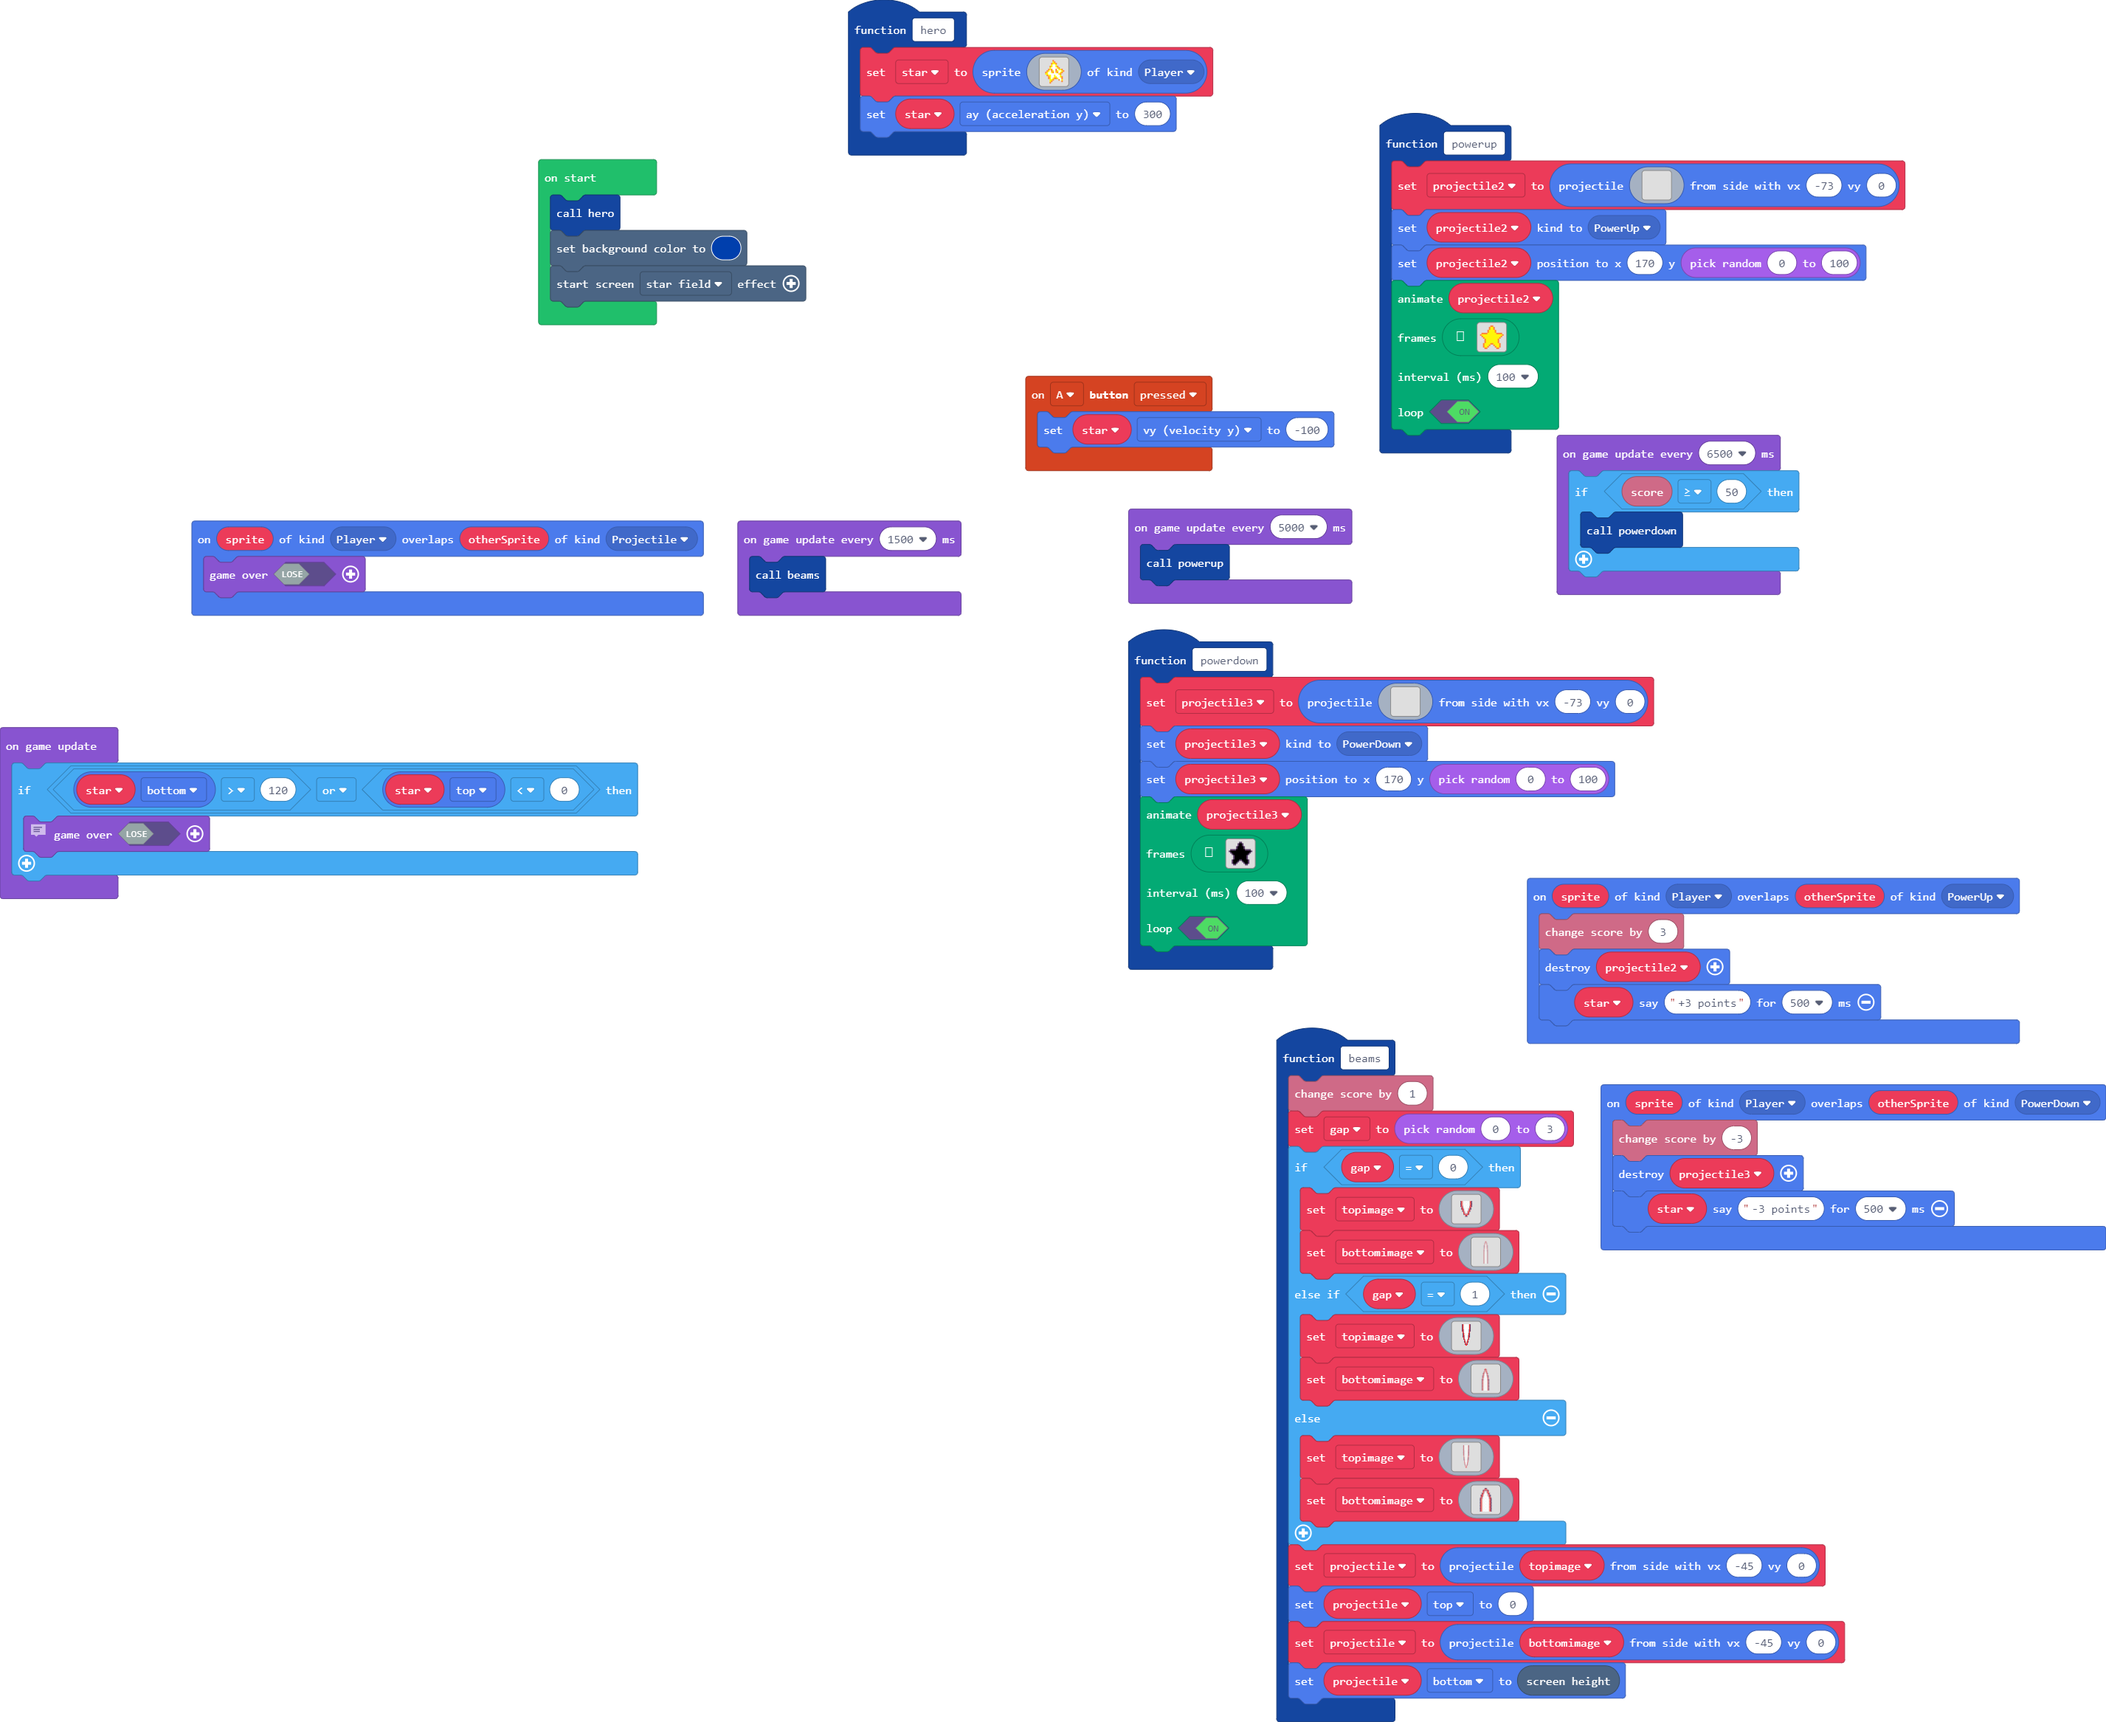
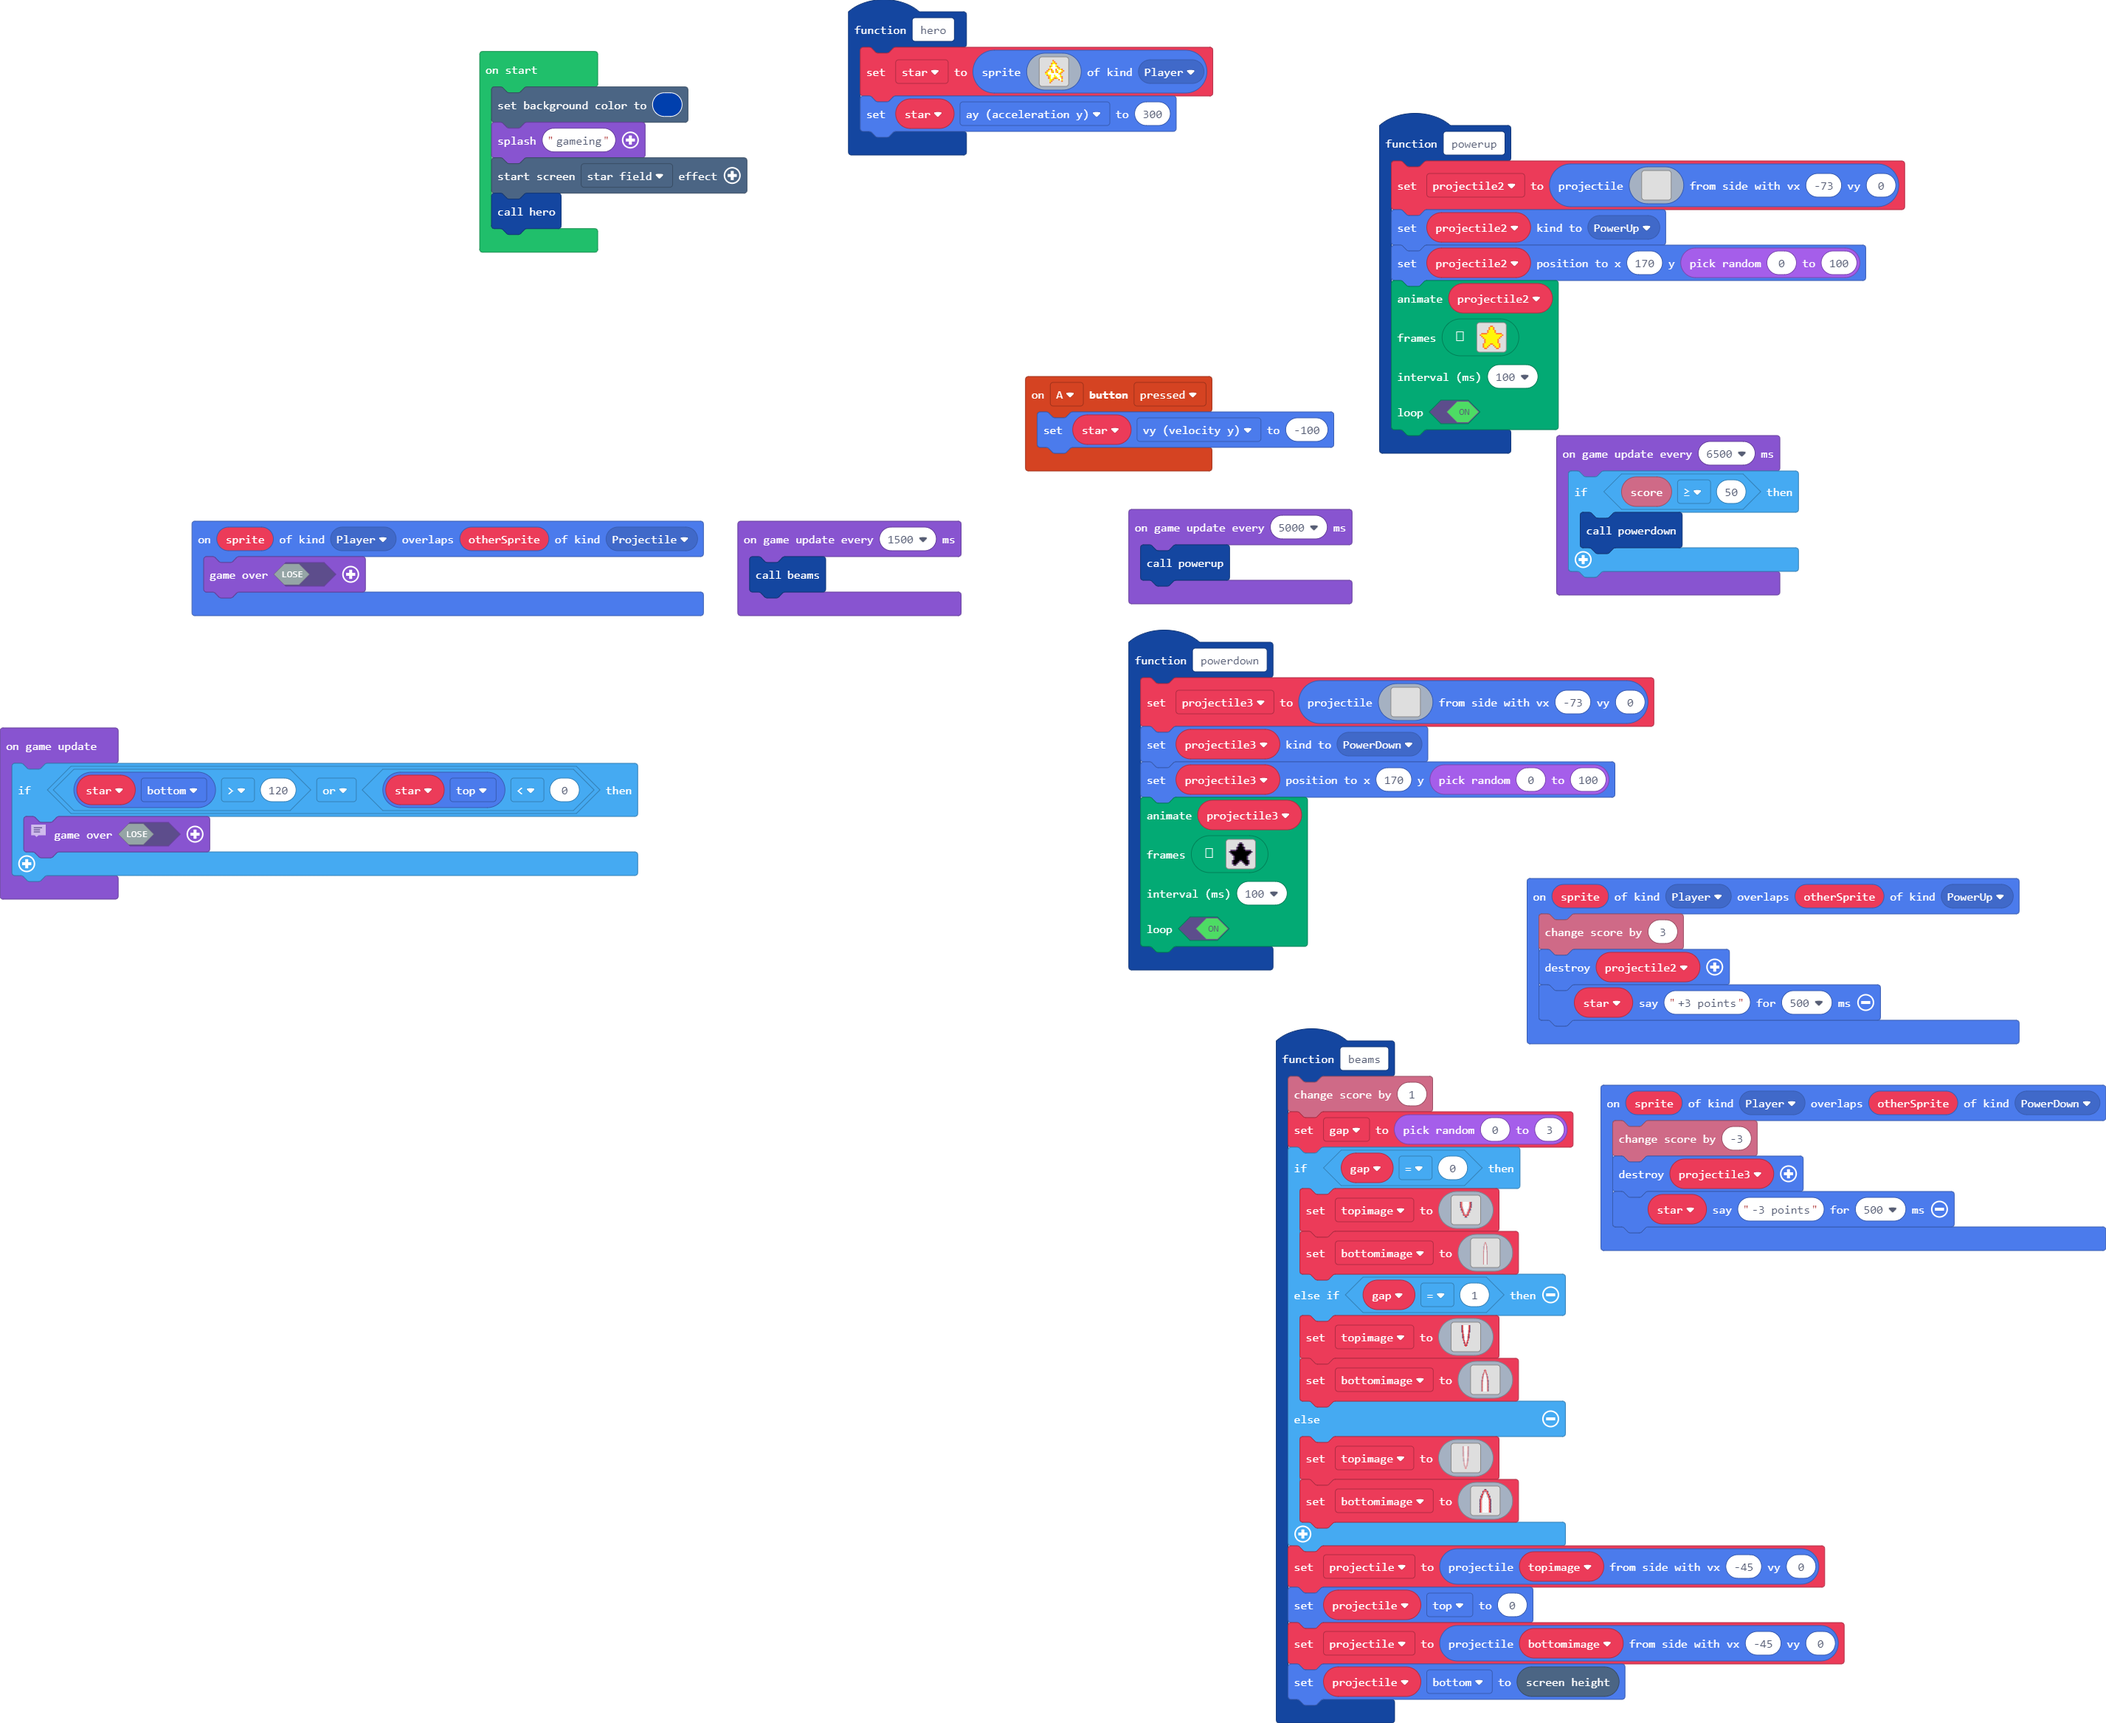
Update main.blocks, main.ts

diff --git a/main.ts b/main.ts
@@ -3,102 +3,6 @@ namespace SpriteKind {
     export const PowerUp = SpriteKind.create()
     export const PowerDown = SpriteKind.create()
 }
-function powerup () {
-    projectile2 = sprites.createProjectileFromSide(img`
-. . . . . . . . . . . . . . . . 
-. . . . . . . . . . . . . . . . 
-. . . . . . . . . . . . . . . . 
-. . . . . . . . . . . . . . . . 
-. . . . . . . . . . . . . . . . 
-. . . . . . . . . . . . . . . . 
-. . . . . . . . . . . . . . . . 
-. . . . . . . . . . . . . . . . 
-. . . . . . . . . . . . . . . . 
-. . . . . . . . . . . . . . . . 
-. . . . . . . . . . . . . . . . 
-. . . . . . . . . . . . . . . . 
-. . . . . . . . . . . . . . . . 
-. . . . . . . . . . . . . . . . 
-. . . . . . . . . . . . . . . . 
-. . . . . . . . . . . . . . . . 
-`, -73, 0)
-    projectile2.setKind(SpriteKind.PowerUp)
-    projectile2.setPosition(170, Math.randomRange(0, 100))
-    animation.runImageAnimation(
-    projectile2,
-    [img`
-. . . . . . . 4 4 . . . . . . . 
-. . . . . . 4 5 5 4 . . . . . . 
-. . . . . . 4 5 5 4 . . . . . . 
-. . . . . 4 5 5 5 5 4 . . . . . 
-. . . . . 4 5 5 5 5 4 . . . . . 
-. 4 4 4 4 5 5 5 5 5 5 4 4 4 4 . 
-4 5 5 5 5 5 5 5 5 5 5 5 5 5 5 4 
-. 4 5 5 5 5 5 5 5 5 5 5 5 5 4 . 
-. . 4 5 5 5 5 5 5 5 5 5 5 4 . . 
-. . . 4 5 5 5 5 5 5 5 5 4 . . . 
-. . . 4 5 5 5 5 5 5 5 5 4 . . . 
-. . . 4 5 5 5 5 5 5 5 5 4 . . . 
-. . 4 5 5 5 5 4 4 5 5 5 5 4 . . 
-. . 4 5 5 5 4 . . 4 5 5 5 4 . . 
-. . 4 5 5 4 . . . . 4 5 5 4 . . 
-. . . 4 4 . . . . . . 4 4 . . . 
-`,img`
-. . . . . . . . . 5 5 . . . . . 
-. . . . . . . . 5 5 1 5 . . . . 
-. . . . . . . . 5 1 1 5 . . . . 
-. . 5 5 5 . . 5 1 1 1 5 . . . . 
-. 5 1 1 1 5 5 1 1 1 1 5 . . . . 
-. 5 1 1 1 1 1 1 1 1 1 1 5 . . . 
-. . 5 1 1 1 1 1 1 1 1 1 1 5 5 . 
-. . . 5 1 1 1 1 1 1 1 1 1 1 1 5 
-. . . . 5 1 1 1 1 1 1 1 1 1 5 5 
-. . . 5 1 1 1 1 1 1 1 1 1 5 5 . 
-. . 5 1 1 1 1 1 1 1 1 5 5 . . . 
-. . 5 1 1 1 1 1 1 1 1 5 . . . . 
-. 5 1 1 1 1 5 5 1 1 1 5 . . . . 
-. 5 1 1 5 5 . . 5 1 1 5 . . . . 
-. 5 5 5 . . . . 5 5 1 5 . . . . 
-. . . . . . . . . 5 5 . . . . . 
-`,img`
-. . . 4 4 . . . . . . 4 4 . . . 
-. . 4 5 5 4 . . . . 4 5 5 4 . . 
-. . 4 5 5 5 4 . . 4 5 5 5 4 . . 
-. . 4 5 5 5 5 4 4 5 5 5 5 4 . . 
-. . . 4 5 5 5 5 5 5 5 5 4 . . . 
-. . . 4 5 5 5 5 5 5 5 5 4 . . . 
-. . . 4 5 5 5 5 5 5 5 5 4 . . . 
-. . 4 5 5 5 5 5 5 5 5 5 5 4 . . 
-. 4 5 5 5 5 5 5 5 5 5 5 5 5 4 . 
-4 5 5 5 5 5 5 5 5 5 5 5 5 5 5 4 
-. 4 4 4 4 5 5 5 5 5 5 4 4 4 4 . 
-. . . . . 4 5 5 5 5 4 . . . . . 
-. . . . . 4 5 5 5 5 4 . . . . . 
-. . . . . . 4 5 5 4 . . . . . . 
-. . . . . . 4 5 5 4 . . . . . . 
-. . . . . . . 4 4 . . . . . . . 
-`,img`
-. . . . . 5 5 . . . . . . . . . 
-. . . . 5 1 5 5 . . . . . . . . 
-. . . . 5 1 1 5 . . . . . . . . 
-. . . . 5 1 1 1 5 . . 5 5 5 . . 
-. . . . 5 1 1 1 1 5 5 1 1 1 5 . 
-. . . 5 1 1 1 1 1 1 1 1 1 1 5 . 
-. 5 5 1 1 1 1 1 1 1 1 1 1 5 . . 
-5 1 1 1 1 1 1 1 1 1 1 1 5 . . . 
-5 5 1 1 1 1 1 1 1 1 1 5 . . . . 
-. 5 5 1 1 1 1 1 1 1 1 1 5 . . . 
-. . . 5 5 1 1 1 1 1 1 1 1 5 . . 
-. . . . 5 1 1 1 1 1 1 1 1 5 . . 
-. . . . 5 1 1 1 5 5 1 1 1 1 5 . 
-. . . . 5 1 1 5 . . 5 5 1 1 5 . 
-. . . . 5 1 5 5 . . . . 5 5 5 . 
-. . . . . 5 5 . . . . . . . . . 
-`],
-    100,
-    true
-    )
-}
 function powerdown () {
     projectile3 = sprites.createProjectileFromSide(img`
 . . . . . . . . . . . . . . . . 
@@ -195,6 +99,139 @@ f f a a a a a a a a a f . . . .
     true
     )
 }
+function hero () {
+    star = sprites.create(img`
+. . . . . . . 4 . . . . . . . . 
+. . . . . . . 5 4 . . . . . . . 
+. . . . . . 4 5 5 4 . . . . . . 
+. . . . . . 5 1 1 5 . . . . . . 
+. . . . . 4 5 1 1 5 4 . . . . . 
+. . . . . 5 1 1 1 1 5 4 . . . . 
+. . . . 4 5 4 1 1 4 1 5 5 4 . . 
+. . . 4 5 1 4 5 1 4 5 1 1 5 4 . 
+. . 4 5 1 1 5 4 1 5 4 1 5 4 . . 
+. . 5 5 1 1 1 1 1 1 1 5 4 . . . 
+. . . 4 5 5 1 1 5 1 1 1 5 . . . 
+. . . . 4 5 1 1 5 5 1 1 5 4 . . 
+. . . . 4 5 1 5 4 4 5 1 1 4 . . 
+. . . . . 5 5 4 . . . 4 1 5 . . 
+. . . . . 5 4 . . . . . . 4 . . 
+. . . . . 4 . . . . . . . . . . 
+`, SpriteKind.Player)
+    star.ay = 300
+}
+sprites.onOverlap(SpriteKind.Player, SpriteKind.PowerUp, function (sprite, otherSprite) {
+    info.changeScoreBy(3)
+    projectile2.destroy()
+    star.say("+3 points", 500)
+})
+function powerup () {
+    projectile2 = sprites.createProjectileFromSide(img`
+. . . . . . . . . . . . . . . . 
+. . . . . . . . . . . . . . . . 
+. . . . . . . . . . . . . . . . 
+. . . . . . . . . . . . . . . . 
+. . . . . . . . . . . . . . . . 
+. . . . . . . . . . . . . . . . 
+. . . . . . . . . . . . . . . . 
+. . . . . . . . . . . . . . . . 
+. . . . . . . . . . . . . . . . 
+. . . . . . . . . . . . . . . . 
+. . . . . . . . . . . . . . . . 
+. . . . . . . . . . . . . . . . 
+. . . . . . . . . . . . . . . . 
+. . . . . . . . . . . . . . . . 
+. . . . . . . . . . . . . . . . 
+. . . . . . . . . . . . . . . . 
+`, -73, 0)
+    projectile2.setKind(SpriteKind.PowerUp)
+    projectile2.setPosition(170, Math.randomRange(0, 100))
+    animation.runImageAnimation(
+    projectile2,
+    [img`
+. . . . . . . 4 4 . . . . . . . 
+. . . . . . 4 5 5 4 . . . . . . 
+. . . . . . 4 5 5 4 . . . . . . 
+. . . . . 4 5 5 5 5 4 . . . . . 
+. . . . . 4 5 5 5 5 4 . . . . . 
+. 4 4 4 4 5 5 5 5 5 5 4 4 4 4 . 
+4 5 5 5 5 5 5 5 5 5 5 5 5 5 5 4 
+. 4 5 5 5 5 5 5 5 5 5 5 5 5 4 . 
+. . 4 5 5 5 5 5 5 5 5 5 5 4 . . 
+. . . 4 5 5 5 5 5 5 5 5 4 . . . 
+. . . 4 5 5 5 5 5 5 5 5 4 . . . 
+. . . 4 5 5 5 5 5 5 5 5 4 . . . 
+. . 4 5 5 5 5 4 4 5 5 5 5 4 . . 
+. . 4 5 5 5 4 . . 4 5 5 5 4 . . 
+. . 4 5 5 4 . . . . 4 5 5 4 . . 
+. . . 4 4 . . . . . . 4 4 . . . 
+`,img`
+. . . . . . . . . 5 5 . . . . . 
+. . . . . . . . 5 5 1 5 . . . . 
+. . . . . . . . 5 1 1 5 . . . . 
+. . 5 5 5 . . 5 1 1 1 5 . . . . 
+. 5 1 1 1 5 5 1 1 1 1 5 . . . . 
+. 5 1 1 1 1 1 1 1 1 1 1 5 . . . 
+. . 5 1 1 1 1 1 1 1 1 1 1 5 5 . 
+. . . 5 1 1 1 1 1 1 1 1 1 1 1 5 
+. . . . 5 1 1 1 1 1 1 1 1 1 5 5 
+. . . 5 1 1 1 1 1 1 1 1 1 5 5 . 
+. . 5 1 1 1 1 1 1 1 1 5 5 . . . 
+. . 5 1 1 1 1 1 1 1 1 5 . . . . 
+. 5 1 1 1 1 5 5 1 1 1 5 . . . . 
+. 5 1 1 5 5 . . 5 1 1 5 . . . . 
+. 5 5 5 . . . . 5 5 1 5 . . . . 
+. . . . . . . . . 5 5 . . . . . 
+`,img`
+. . . 4 4 . . . . . . 4 4 . . . 
+. . 4 5 5 4 . . . . 4 5 5 4 . . 
+. . 4 5 5 5 4 . . 4 5 5 5 4 . . 
+. . 4 5 5 5 5 4 4 5 5 5 5 4 . . 
+. . . 4 5 5 5 5 5 5 5 5 4 . . . 
+. . . 4 5 5 5 5 5 5 5 5 4 . . . 
+. . . 4 5 5 5 5 5 5 5 5 4 . . . 
+. . 4 5 5 5 5 5 5 5 5 5 5 4 . . 
+. 4 5 5 5 5 5 5 5 5 5 5 5 5 4 . 
+4 5 5 5 5 5 5 5 5 5 5 5 5 5 5 4 
+. 4 4 4 4 5 5 5 5 5 5 4 4 4 4 . 
+. . . . . 4 5 5 5 5 4 . . . . . 
+. . . . . 4 5 5 5 5 4 . . . . . 
+. . . . . . 4 5 5 4 . . . . . . 
+. . . . . . 4 5 5 4 . . . . . . 
+. . . . . . . 4 4 . . . . . . . 
+`,img`
+. . . . . 5 5 . . . . . . . . . 
+. . . . 5 1 5 5 . . . . . . . . 
+. . . . 5 1 1 5 . . . . . . . . 
+. . . . 5 1 1 1 5 . . 5 5 5 . . 
+. . . . 5 1 1 1 1 5 5 1 1 1 5 . 
+. . . 5 1 1 1 1 1 1 1 1 1 1 5 . 
+. 5 5 1 1 1 1 1 1 1 1 1 1 5 . . 
+5 1 1 1 1 1 1 1 1 1 1 1 5 . . . 
+5 5 1 1 1 1 1 1 1 1 1 5 . . . . 
+. 5 5 1 1 1 1 1 1 1 1 1 5 . . . 
+. . . 5 5 1 1 1 1 1 1 1 1 5 . . 
+. . . . 5 1 1 1 1 1 1 1 1 5 . . 
+. . . . 5 1 1 1 5 5 1 1 1 1 5 . 
+. . . . 5 1 1 5 . . 5 5 1 1 5 . 
+. . . . 5 1 5 5 . . . . 5 5 5 . 
+. . . . . 5 5 . . . . . . . . . 
+`],
+    100,
+    true
+    )
+}
+sprites.onOverlap(SpriteKind.Player, SpriteKind.Projectile, function (sprite, otherSprite) {
+    game.over(false)
+})
+controller.A.onEvent(ControllerButtonEvent.Pressed, function () {
+    star.vy = -100
+})
+sprites.onOverlap(SpriteKind.Player, SpriteKind.PowerDown, function (sprite, otherSprite) {
+    info.changeScoreBy(-3)
+    projectile3.destroy()
+    star.say("-3 points", 500)
+})
 function beams () {
     info.changeScoreBy(1)
     gap = Math.randomRange(0, 3)
@@ -451,53 +488,17 @@ function beams () {
     projectile = sprites.createProjectileFromSide(bottomimage, -45, 0)
     projectile.bottom = scene.screenHeight()
 }
-function hero () {
-    star = sprites.create(img`
-. . . . . . . 4 . . . . . . . . 
-. . . . . . . 5 4 . . . . . . . 
-. . . . . . 4 5 5 4 . . . . . . 
-. . . . . . 5 1 1 5 . . . . . . 
-. . . . . 4 5 1 1 5 4 . . . . . 
-. . . . . 5 1 1 1 1 5 4 . . . . 
-. . . . 4 5 4 1 1 4 1 5 5 4 . . 
-. . . 4 5 1 4 5 1 4 5 1 1 5 4 . 
-. . 4 5 1 1 5 4 1 5 4 1 5 4 . . 
-. . 5 5 1 1 1 1 1 1 1 5 4 . . . 
-. . . 4 5 5 1 1 5 1 1 1 5 . . . 
-. . . . 4 5 1 1 5 5 1 1 5 4 . . 
-. . . . 4 5 1 5 4 4 5 1 1 4 . . 
-. . . . . 5 5 4 . . . 4 1 5 . . 
-. . . . . 5 4 . . . . . . 4 . . 
-. . . . . 4 . . . . . . . . . . 
-`, SpriteKind.Player)
-    star.ay = 300
-}
-sprites.onOverlap(SpriteKind.Player, SpriteKind.PowerUp, function (sprite, otherSprite) {
-    info.changeScoreBy(3)
-    projectile2.destroy()
-    star.say("+3 points", 500)
-})
-sprites.onOverlap(SpriteKind.Player, SpriteKind.Projectile, function (sprite, otherSprite) {
-    game.over(false)
-})
-controller.A.onEvent(ControllerButtonEvent.Pressed, function () {
-    star.vy = -100
-})
-sprites.onOverlap(SpriteKind.Player, SpriteKind.PowerDown, function (sprite, otherSprite) {
-    info.changeScoreBy(-3)
-    projectile3.destroy()
-    star.say("-3 points", 500)
-})
-let star: Sprite = null
 let projectile: Sprite = null
 let bottomimage: Image = null
 let topimage: Image = null
 let gap = 0
-let projectile3: Sprite = null
 let projectile2: Sprite = null
-hero()
+let star: Sprite = null
+let projectile3: Sprite = null
 scene.setBackgroundColor(8)
+game.splash("gameing")
 effects.starField.startScreenEffect()
+hero()
 game.onUpdateInterval(1500, function () {
     beams()
 })
